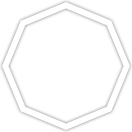
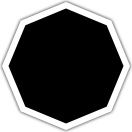
fix bug in layout and fix backward default for filled layout

diff --git a/src/display_layout.cpp b/src/display_layout.cpp
@@ -35,22 +35,22 @@ void Display::renderLayout(Settings &settings)
 
         if (elem == "DPad")
         {
-            drawSpriteCentered("dpad-gate", cx, cy, WIDGET_SCALE);
+            drawSpriteCentered("dpad-gate-inactive", cx, cy, WIDGET_SCALE);
         }
         else if (elem == "LStick")
         {
-            drawSpriteCentered("lstick-gate", cx, cy, WIDGET_SCALE);
-            drawSpriteCentered("lstick", cx, cy, WIDGET_SCALE);
+            drawSpriteCentered("lstick-gate-inactive", cx, cy, WIDGET_SCALE);
+            drawSpriteCentered("lstick-inactive", cx, cy, WIDGET_SCALE);
         }
         else if (elem == "RStick")
         {
-            drawSpriteCentered("rstick-gate", cx, cy, WIDGET_SCALE);
-            drawSpriteCentered("rstick", cx, cy, WIDGET_SCALE);
+            drawSpriteCentered("rstick-gate-inactive", cx, cy, WIDGET_SCALE);
+            drawSpriteCentered("rstick-inactive", cx, cy, WIDGET_SCALE);
         }
         else
         {
             std::string prefix = toLower(elem);
-            std::string key = prefix + "-outline";
+            std::string key = prefix + "-inactive";
             if (textures.find(key) != textures.end())
             {
                 auto tit = textures.find(key);

diff --git a/src/display.cpp b/src/display.cpp
@@ -203,6 +203,9 @@ static const TextureEntry TEXTURE_TABLE[] = {
     {"rstick-active",         nullptr, "resources/buttons/filled/active/c-stick.png",        "resources/buttons/pressed/active/c-stick.png", "c-stick.png", true},
     {"rstick-ribs-inactive",  "resources/buttons/filled/inactive/c-stick-ribs.png",  nullptr, nullptr, "c-stick-ribs.png", false},
     {"rstick-ribs-active",    nullptr, "resources/buttons/filled/active/c-stick-ribs.png",   "resources/buttons/pressed/active/c-stick-ribs.png", "c-stick-ribs.png", true},
+
+    // Misc
+    {"disconnected",          "resources/buttons/misc/disconnected.png",             nullptr, nullptr, "disconnected.png", false},
 };
 
 void Display::loadTextures(const Settings &settings)

diff --git a/src/display_render.cpp b/src/display_render.cpp
@@ -56,6 +56,10 @@ void Display::render(const Settings &settings, const Controller &controller)
     drawNavBar();
     float offy = navBarHeight();
 
+    if (!controller.isConnected())
+    {
+        drawSpriteCentered("disconnected", 40.f, 40.f + offy, 0.5f);
+    }
 
     int deadzoneRaw = settings.deadzone * 32768 / 100;
     auto isActive = [&](const std::string &btn) -> bool {
